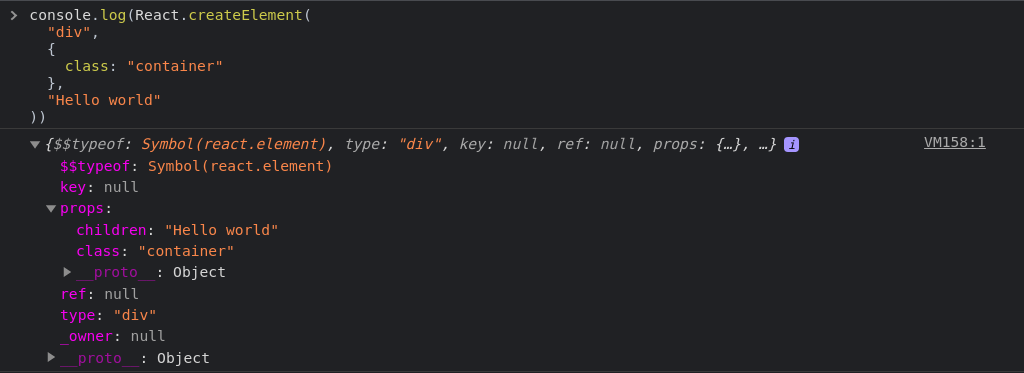
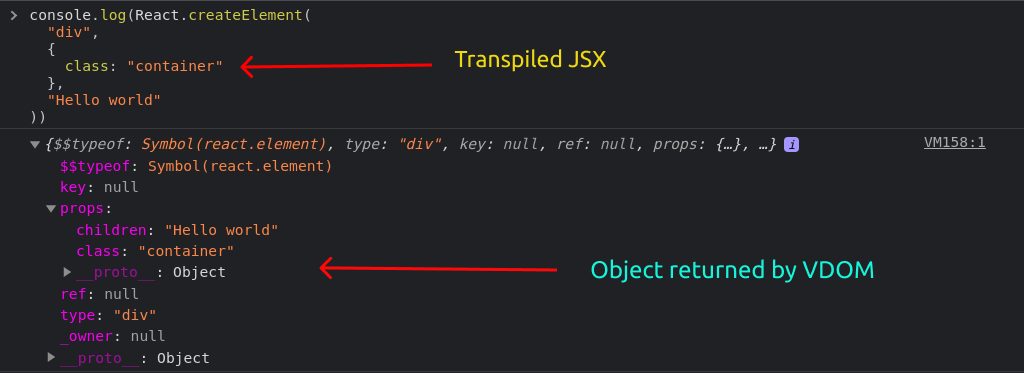
refactor: image caption added

Changed region(s): [[0.3125, 0.6783, 0.875, 0.7668], [0.2188, 0.118, 0.5938, 0.2064]]

diff --git a/content/posts/08-react-lists-and-reconciliation/index.md b/content/posts/08-react-lists-and-reconciliation/index.md
@@ -20,7 +20,7 @@ First, let's understand how React rendering process works through Virtual DOM.
 
 Basically when you write JSX, it gets transpiled to plain old js by Babel or other compiler. It invokes the `React.createElement()`function which bunch of parameteres as per your element and the plain old JS object which is also known as `Virtual DOM`.
 
-<img src="vdom-example.png" alt="vdom-example"/>
+<img src="vdom-example.png" alt="vdom-example" caption="vdom"/>
 
 But...
 Most of our application isn't only about the static content. What happens when the state changes and we have to generate new UI based on that state.
